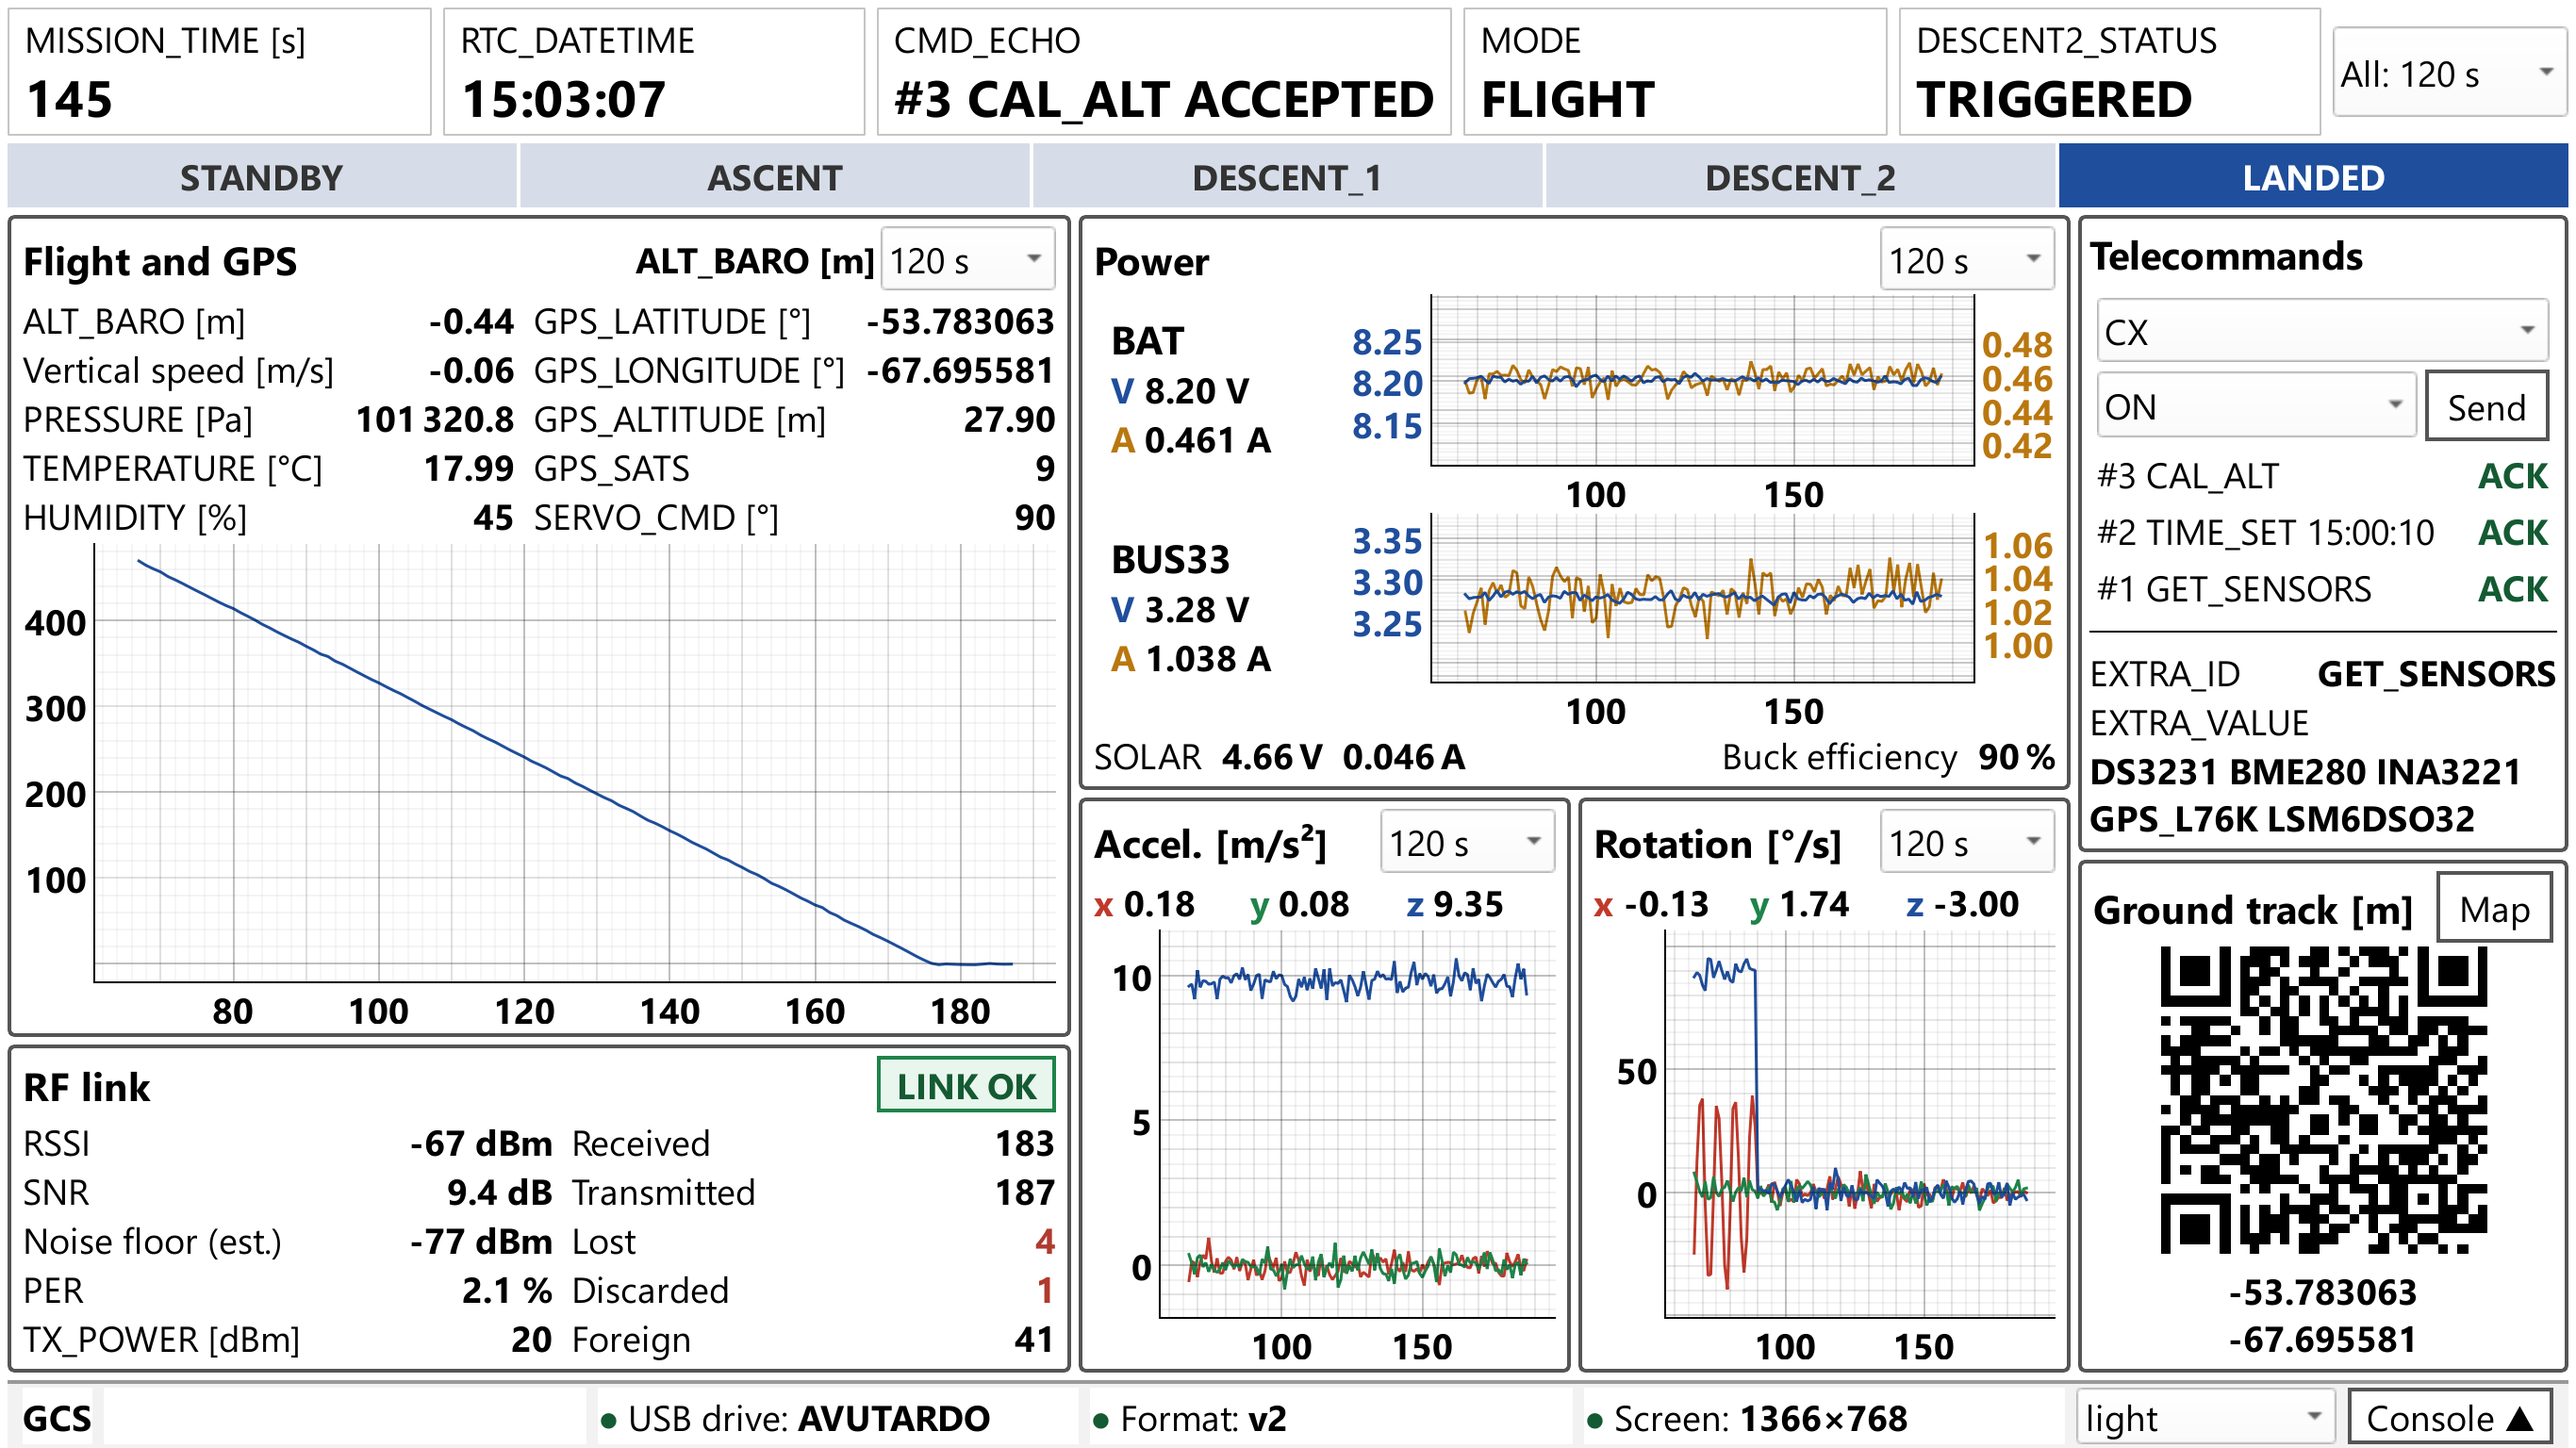
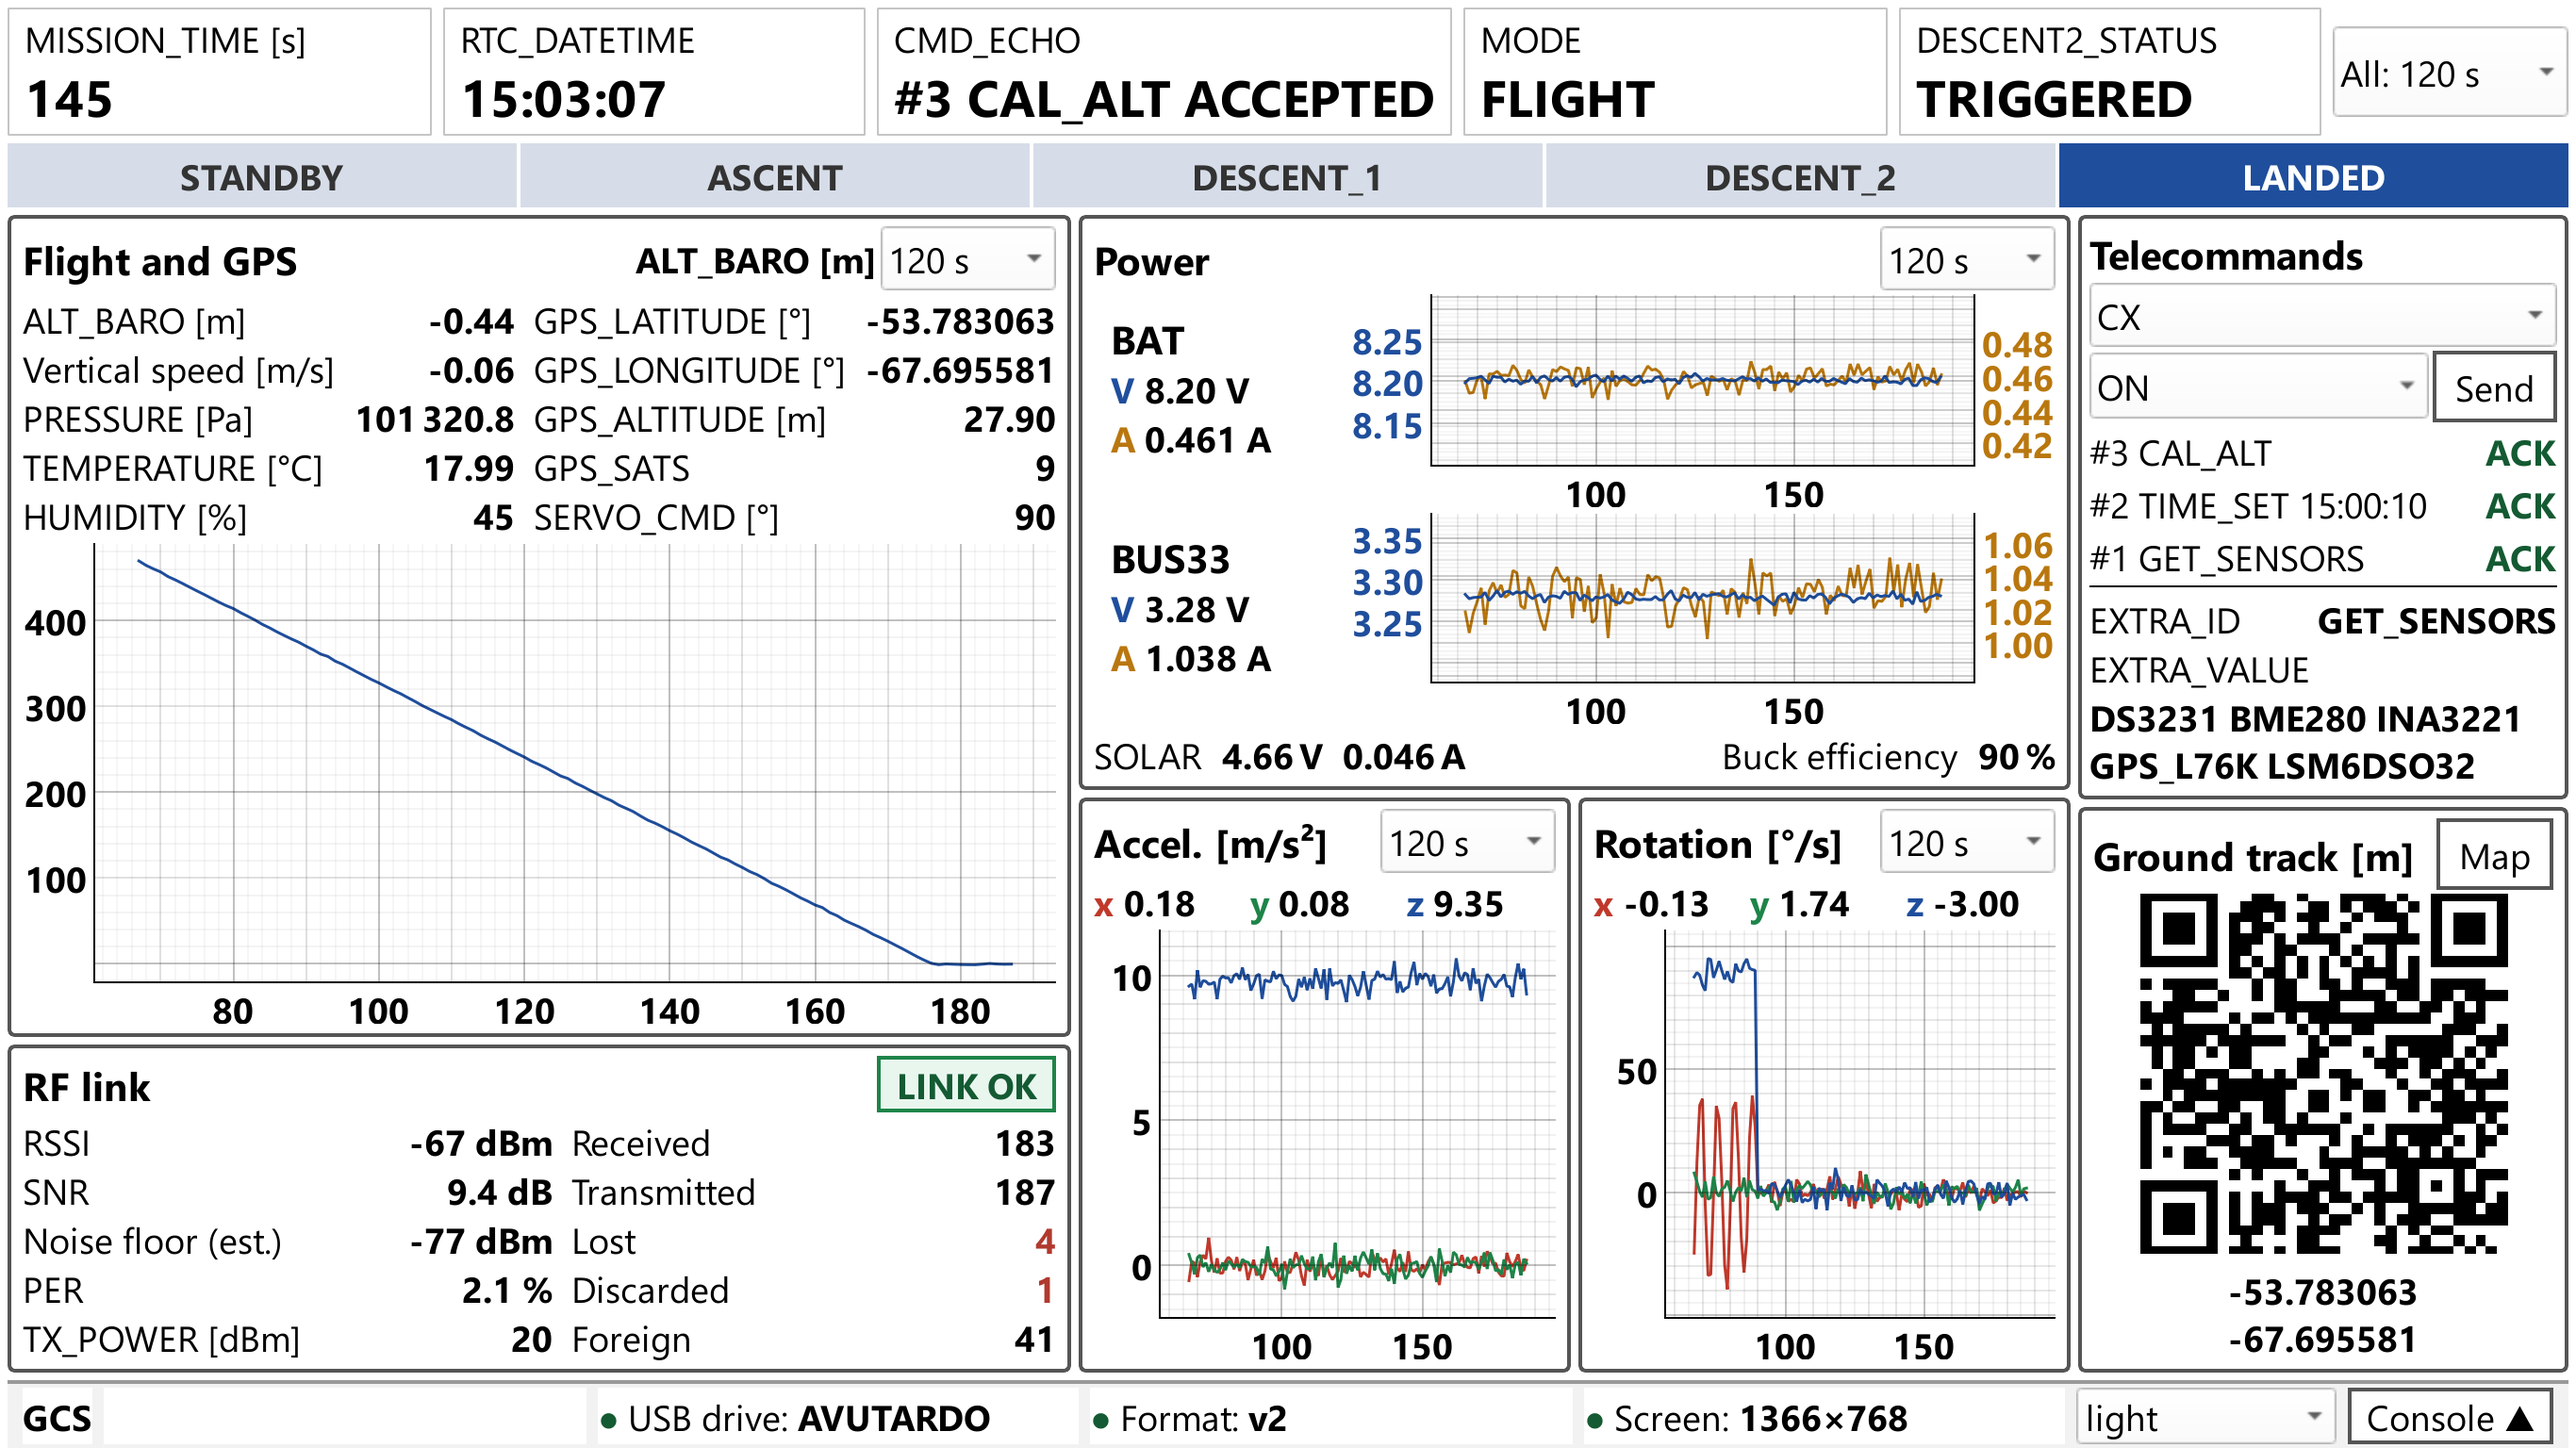
M4: Telecommands entera en el peor caso con la consola abierta (#58)
Con la consola abierta, LANDED, MODE en ámbar y EXTRA_ID = CAM_STATUS, la
ventana pedía 790 px de alto (793 en high contrast) y el layout aplastaba el
Send y los dos combos de Telecommands. Los 765 de las decisiones eran el
mínimo, no lo que pide la ventana.

M4 le saca 28 px al aire de esa tarjeta, sin tocar letra, gráficos ni filas:
el panel no repite el margen de la caja y los espacios bajan a 2 px. Ahora
pide 762 (765 en high contrast) y cada tarjeta recibe el alto que pide.
--captura falla si la ventana pide más de 768. Ninguna otra respuesta del
par extra pasa de dos líneas: CAM_STATUS sigue siendo el peor caso.

Capturas de la diap. 77 regeneradas en light.

Changed region(s): [[0.8089, 0.1875, 1.0, 0.875]]

diff --git a/gcs/prototipos/pantalla.py b/gcs/prototipos/pantalla.py
@@ -107,6 +107,12 @@ y en gris en las demás (FALLA_SI_CERO).
     «E →» derechos dentro del mapa en vez de los rótulos de los ejes, y las
     mismas marcas. Sigue en 765 px (768 en high contrast).
 
+    #58: esos 765 eran el mínimo, no lo que pide la ventana. En el peor caso
+    (consola abierta, LANDED, MODE en ámbar, EXTRA_ID = CAM_STATUS) pedía 790
+    (793 en high contrast) y el layout aplastaba el Send y los combos de
+    Telecommands. M4 le saca 28 px al aire de esa tarjeta: ahora pide 762
+    (765 en high contrast), y --captura falla si la ventana pide más de 768.
+
 Telecomandos (#21), en las variantes de las rondas 6 y 7: un combobox con los
 19 de `telecomandos.toml` y, al lado, el parámetro que pide cada uno (lista de
 valores, número con su unidad y el rango del .toml, o nada; TIME_SET toma la
@@ -3372,6 +3378,15 @@ class VarianteM4(VarianteK6):
         linea = QFrame()
         linea.setFrameShape(QFrame.Shape.HLine)
         cv = self.caja_comandos.layout()
+        # #58: con el par extra, la columna derecha pedía 25 px más de los que
+        # hay con la consola abierta (high contrast), y el layout aplastaba el
+        # Send y los combos. Se sacan del aire de la tarjeta, no de la letra ni
+        # de los gráficos: el panel no repite el margen de la caja (8 px), y los
+        # espacios bajan de 6 a 2 en la caja (12) y de 4 a 2 en el panel (8).
+        cv.setSpacing(2)
+        panel = self.comandos.layout()
+        panel.setContentsMargins(0, 0, 0, 0)
+        panel.setSpacing(2)
         cv.addWidget(linea)
         cv.addWidget(self.extra)
 
@@ -3763,6 +3778,11 @@ def capturar_demo(app: QApplication, v: Ventana, instante: str, destino: Path) -
     entera = imagen(v)
     esperado = (1366 * ESCALA, 768 * ESCALA)
     assert (entera.width(), entera.height()) == esperado, (entera.size(), esperado)
+    # La imagen siempre mide 1366×768 porque la ventana se fuerza a ese alto:
+    # si pide más, alguna tarjeta salió aplastada (#58).
+    pide = v.sizeHint().height()
+    if pide > 768:
+        sys.exit(f"The window asks for {pide} px of height and only 768 fit")
     entera.save(str(destino))
     grabadas = [destino]
     if instante == "standby":
